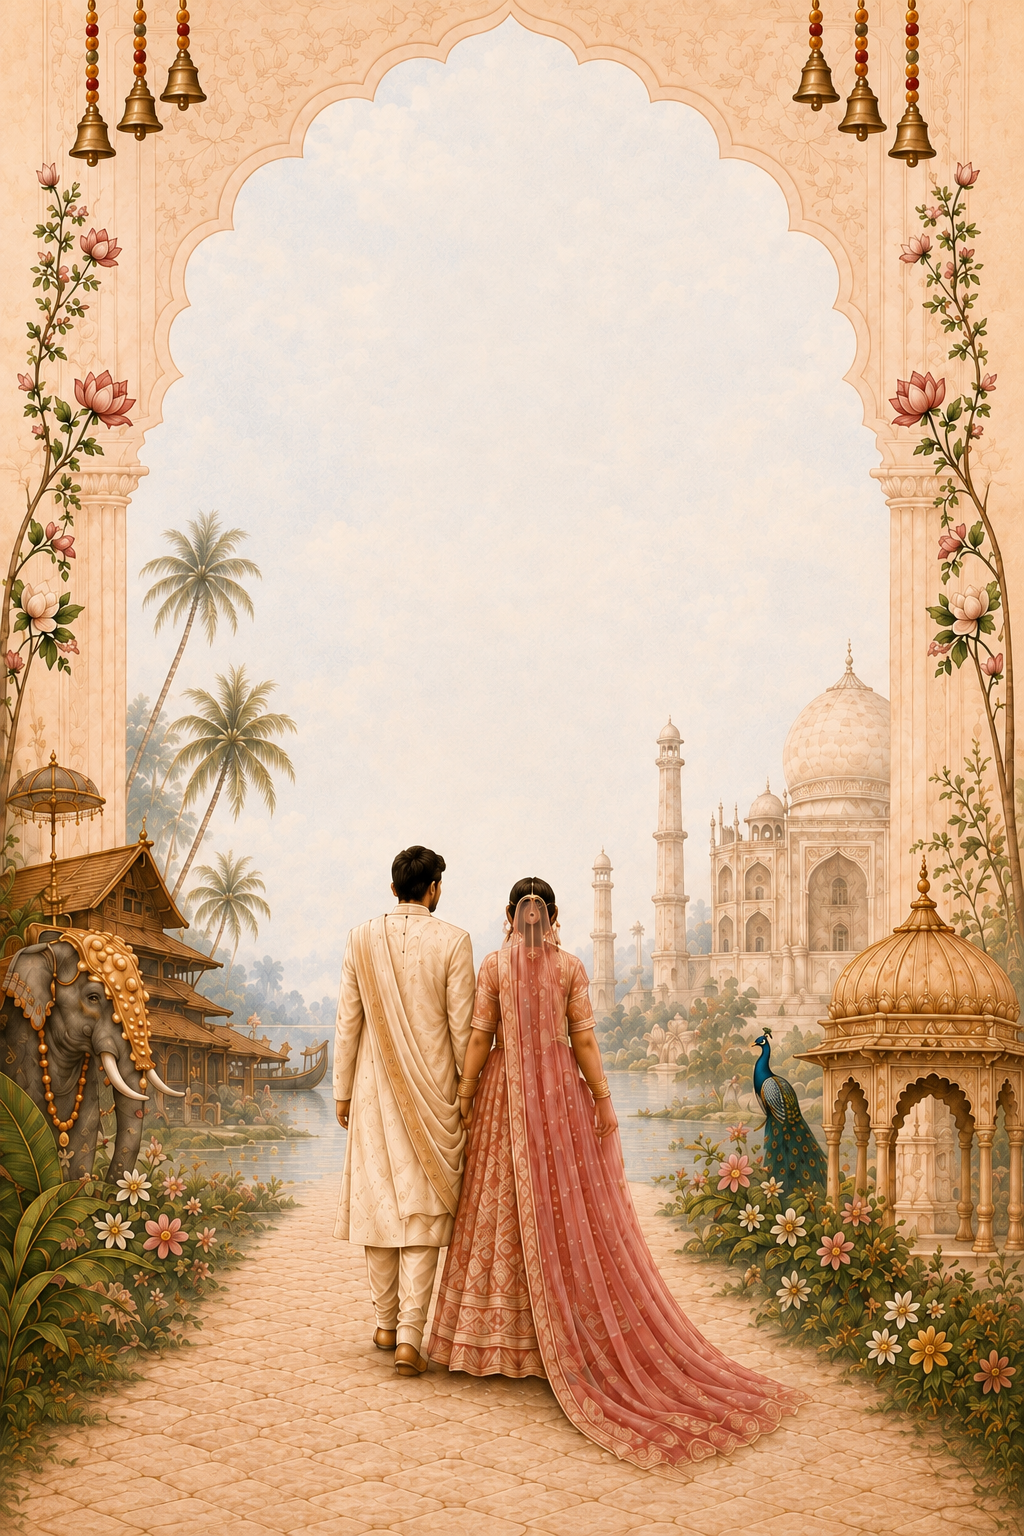
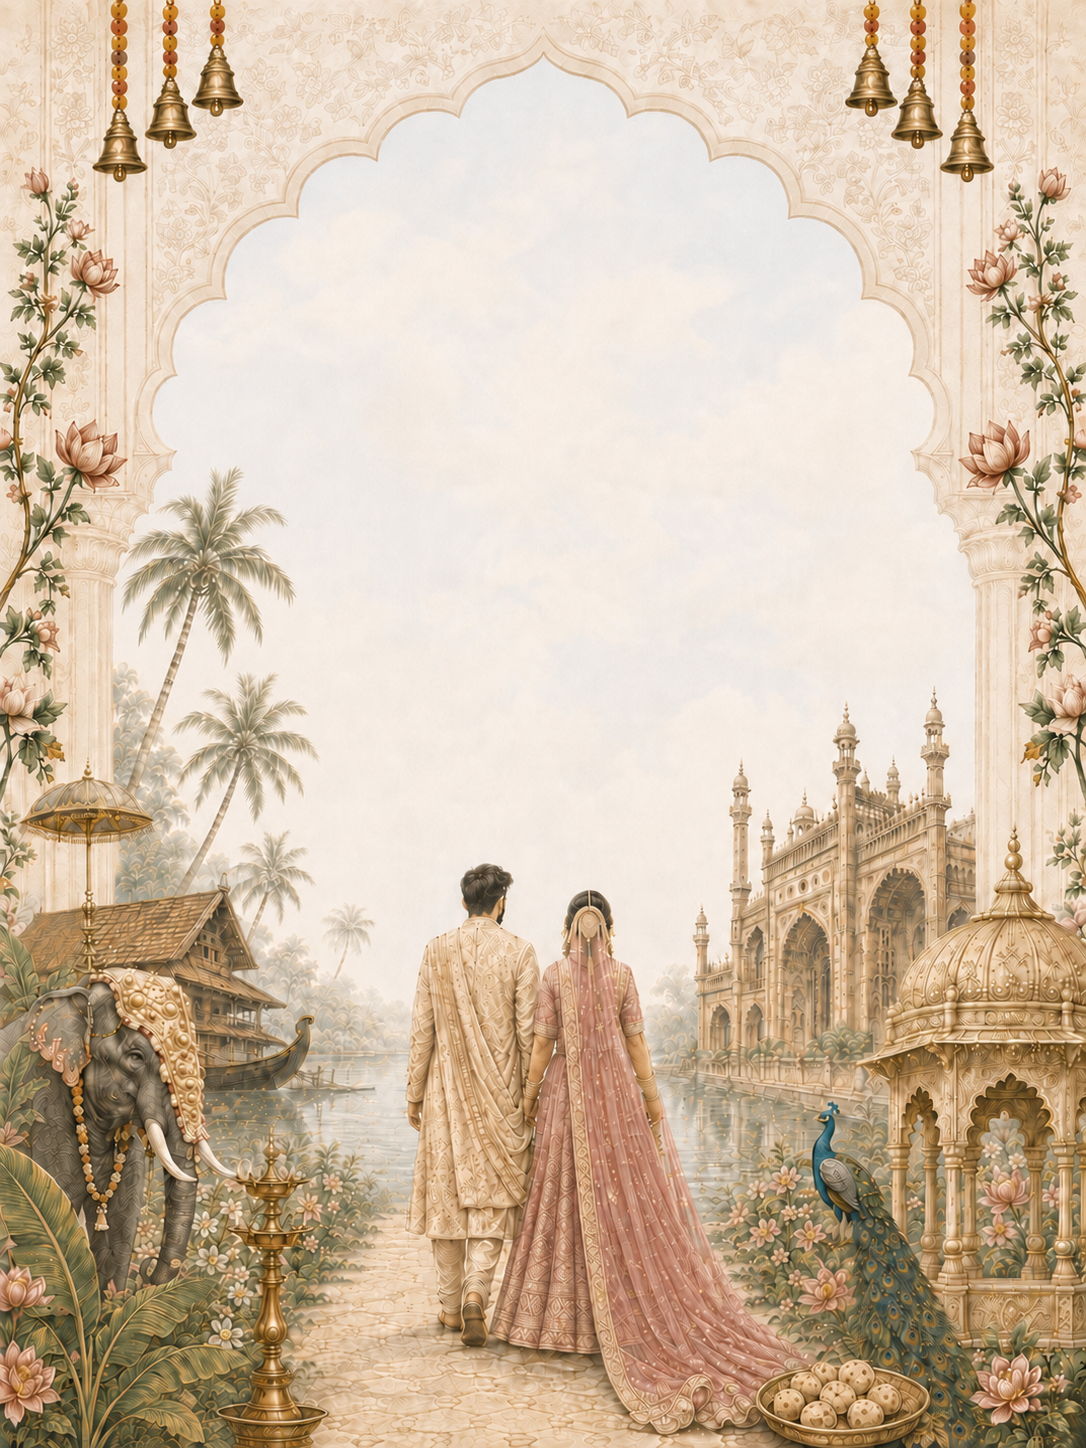
feat: supriya initial build

diff --git a/app/src/components/Invitation.tsx b/app/src/components/Invitation.tsx
@@ -60,9 +60,9 @@ export function Invitation() {
               color: '#8a6a44',
             }}
           >
-            Chandrain Ashoka Rao
+            Subodh Sahai
             <br />
-            &amp; Chandrain Anitha Rao
+            &amp; Priti Sahai
           </p>
           <p
             style={{
@@ -77,7 +77,7 @@ export function Invitation() {
             <br />
             the wedding celebration
             <br />
-            of their beloved son
+            of their beloved daughter
           </p>
           <h2
             style={{
@@ -88,7 +88,7 @@ export function Invitation() {
               lineHeight: 1.2,
             }}
           >
-            Rahul Chandrain Rao
+            Supriya Sahai
           </h2>
           <p style={{ margin: '.6cqw 0', fontStyle: 'italic', fontSize: '3.1cqw', color: '#8a6a44' }}>with</p>
           <h2
@@ -100,10 +100,10 @@ export function Invitation() {
               lineHeight: 1.2,
             }}
           >
-            Supriya Sahai
+            Rahul Chandrain Rao
           </h2>
           <p style={{ margin: '2cqw 0 0', fontSize: '2.8cqw', letterSpacing: '.04em', color: '#6d5a45' }}>
-            cherished daughter of
+            cherished son of
           </p>
           <p
             style={{
@@ -115,9 +115,9 @@ export function Invitation() {
               color: '#8a6a44',
             }}
           >
-            Subodh Sahai
+            Chandrain Ashoka Rao
             <br />
-            &amp; Priti Sahai
+            &amp; Chandrain Anitha Rao
           </p>
         </div>
       </Reveal>

diff --git a/app/index.html b/app/index.html
@@ -5,8 +5,8 @@
     <link rel="icon" type="image/svg+xml" href="/favicon.svg" />
     <meta name="viewport" content="width=device-width, initial-scale=1.0" />
     <meta name="theme-color" content="#7a1c2e" />
-    <title>Rahul &amp; Supriya &middot; Wedding Invitation</title>
-    <meta name="description" content="You are cordially invited to the wedding celebration of Rahul &amp; Supriya, 11–12 November 2026, The Farmhouse Collective, Bangalore." />
+    <title>Supriya &amp; Rahul &middot; Wedding Invitation</title>
+    <meta name="description" content="You are cordially invited to the wedding celebration of Supriya &amp; Rahul, 11–12 November 2026, The Farmhouse Collective, Bangalore." />
     <link rel="preconnect" href="https://fonts.googleapis.com" />
     <link rel="preconnect" href="https://fonts.gstatic.com" crossorigin />
     <link href="https://fonts.googleapis.com/css2?family=Cormorant+Garamond:ital,wght@0,300;0,400;0,500;0,600;1,300;1,400&family=Great+Vibes&display=swap" rel="stylesheet" />

diff --git a/app/src/components/Cover.tsx b/app/src/components/Cover.tsx
@@ -1,4 +1,4 @@
-import coverArt from '../assets/textless-page-1-v2.png';
+import coverArt from '../assets/textless-page-1.png';
 
 interface CoverProps {
   guest: string;
@@ -54,7 +54,7 @@ export function Cover({ guest, onOpen }: CoverProps) {
       <div style={{ position: 'relative', width: '100%', containerType: 'inline-size' }}>
         <img
           src={coverArt}
-          alt="Rahul and Supriya"
+          alt="Supriya and Rahul"
           width={1086}
           height={1448}
           style={{ display: 'block', width: '100%', height: 'auto', aspectRatio: '1086 / 1448' }}
@@ -93,7 +93,7 @@ export function Cover({ guest, onOpen }: CoverProps) {
               whiteSpace: 'nowrap',
             }}
           >
-            Rahul &amp; Supriya
+            Supriya &amp; Rahul
           </h1>
           <p
             style={{

diff --git a/app/src/components/ThankYou.tsx b/app/src/components/ThankYou.tsx
@@ -26,11 +26,11 @@ export function ThankYou() {
           We cannot wait to celebrate with you.
         </p>
         <p style={{ margin: '26px 0 0', fontSize: 11, letterSpacing: '.36em', textTransform: 'uppercase', color: '#e2bd94' }}>
-          Rahul &amp; Supriya &middot; Nov 2026
+          Supriya &amp; Rahul &middot; Nov 2026
         </p>
         <a
           href={invitationDownload}
-          download="Rahul-Supriya-Invitation.jpg"
+          download="Supriya-Rahul-Invitation.jpg"
           style={{
             marginTop: 26,
             minHeight: 44,

diff --git a/app/src/components/Venue.tsx b/app/src/components/Venue.tsx
@@ -3,7 +3,7 @@ import { Reveal } from './Reveal';
 
 export function Venue() {
   const share = async () => {
-    const data = { title: 'Rahul & Supriya', text: 'Join us on 11–12 Nov 2026 in Bangalore', url: location.href };
+    const data = { title: 'Supriya & Rahul', text: 'Join us on 11–12 Nov 2026 in Bangalore', url: location.href };
     try {
       if (navigator.share) {
         await navigator.share(data);

diff --git a/app/src/lib/ics.ts b/app/src/lib/ics.ts
@@ -3,7 +3,7 @@ export function buildIcsBlobUrl(title: string, start: string, end: string): stri
     'BEGIN:VCALENDAR',
     'VERSION:2.0',
     'BEGIN:VEVENT',
-    'SUMMARY:' + title + ' — Rahul & Supriya',
+    'SUMMARY:' + title + ' — Supriya & Rahul',
     'DTSTART:' + start,
     'DTEND:' + end,
     'LOCATION:Farmhouse Collective, Bangalore',

diff --git a/app/src/lib/calendar.ts b/app/src/lib/calendar.ts
@@ -1,7 +1,7 @@
 export function buildGoogleCalendarUrl(title: string, start: string, end: string, location: string): string {
   const params = new URLSearchParams({
     action: 'TEMPLATE',
-    text: title + ' — Rahul & Supriya',
+    text: title + ' — Supriya & Rahul',
     dates: start + '/' + end,
     location,
   });
